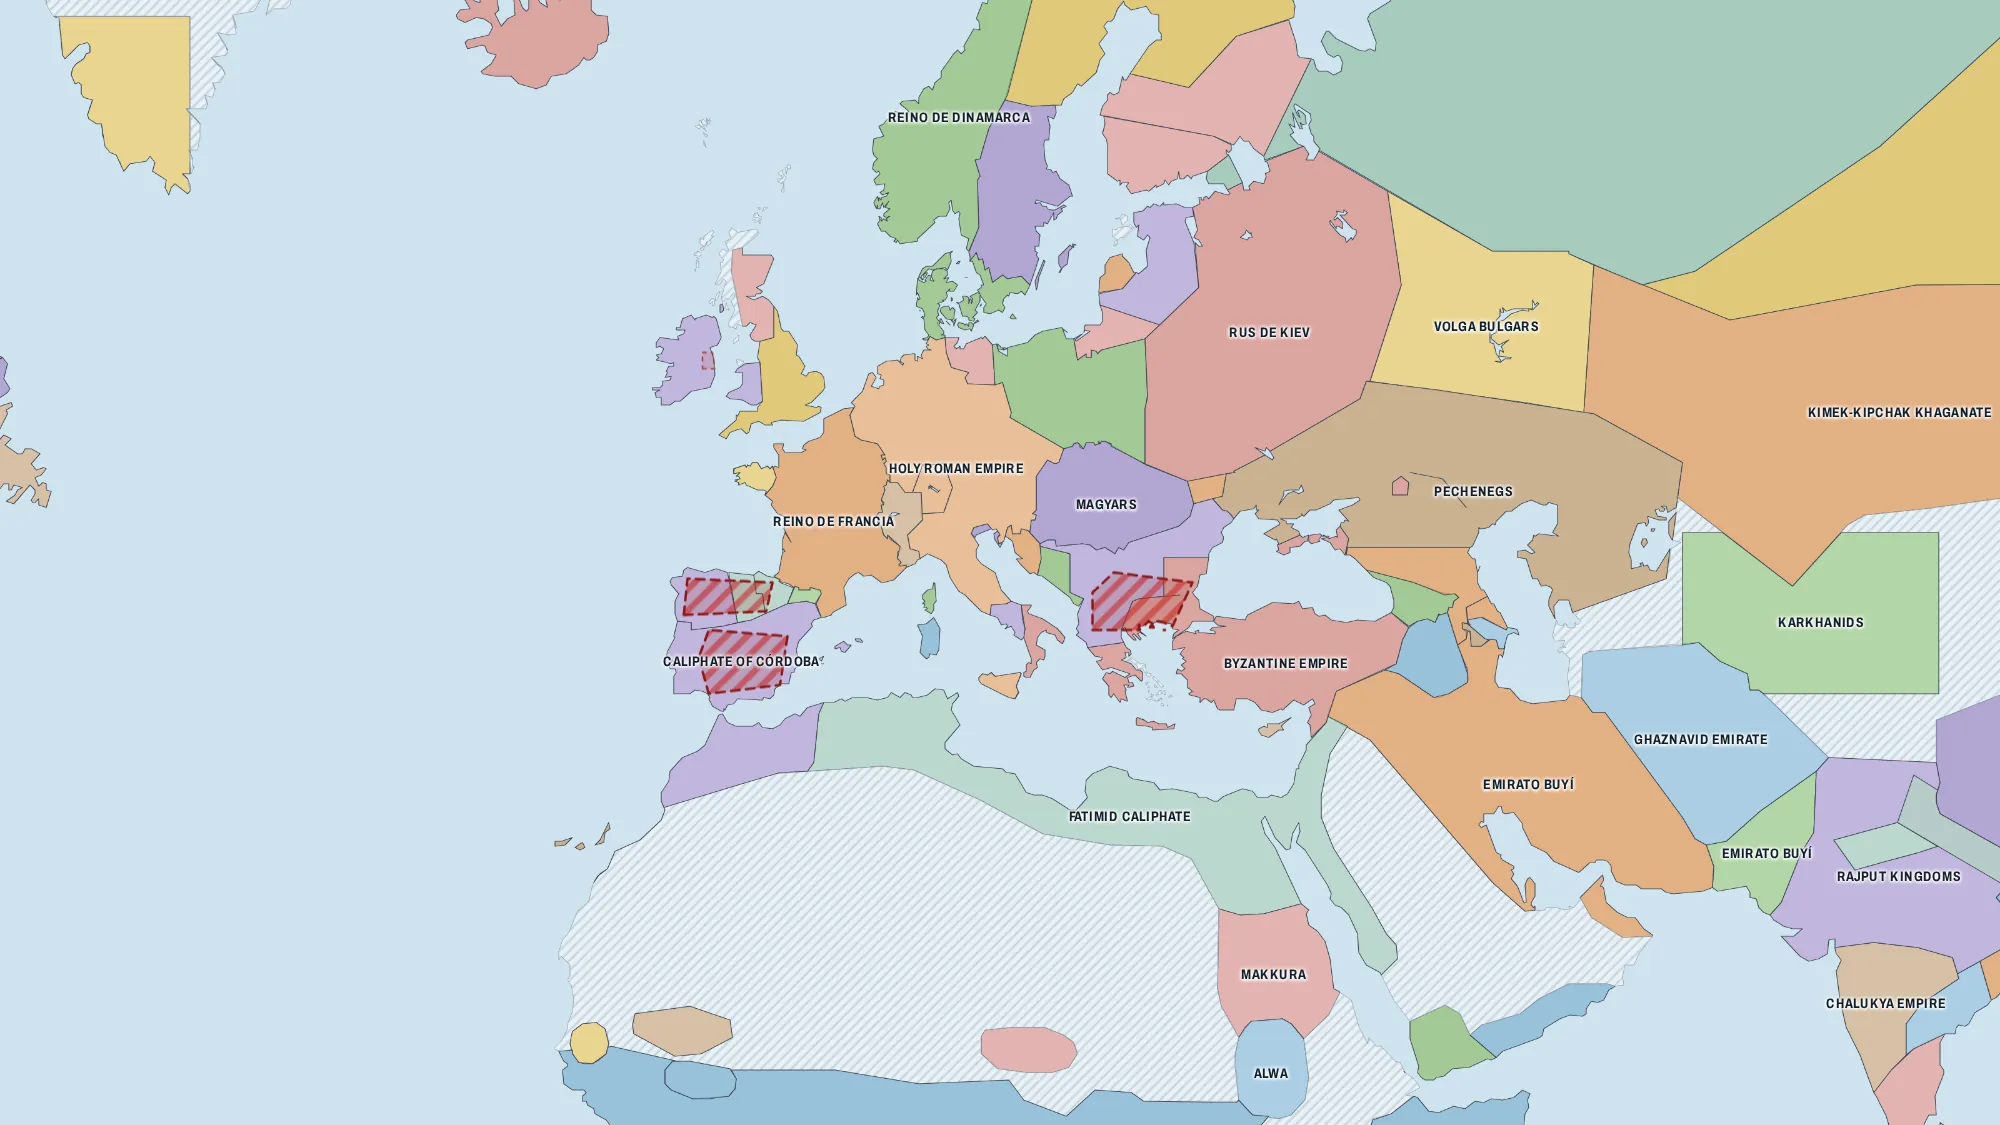
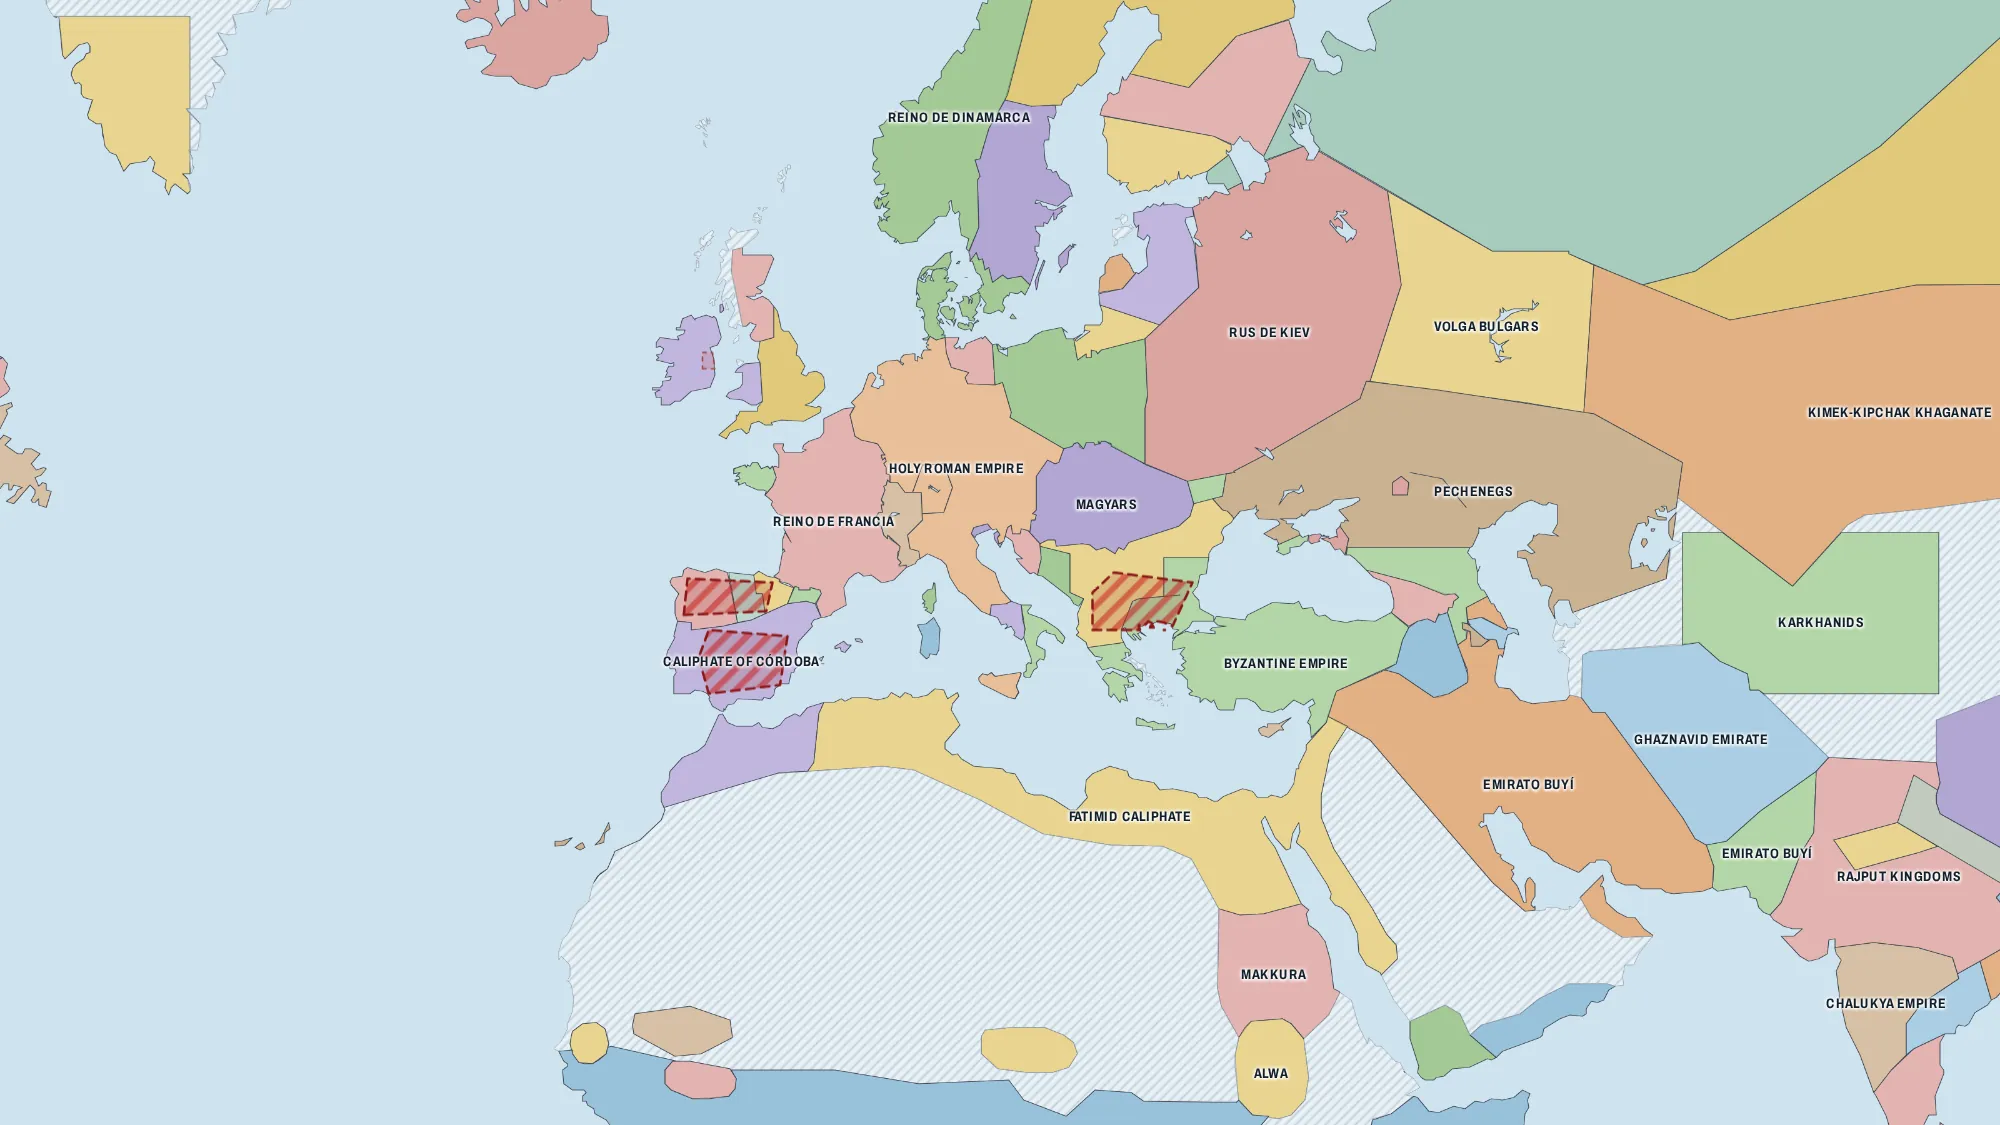
feat(web): dos territorios vecinos no comparten color
api/colorear.py reparte las 16 tintas por mapa (vecinas a menos de ~8 km con tono
distinto, estable entre años) y guarda las excepciones en web/data/colores.json, que
la web lee al arrancar. vista_previa.py usa los mismos colores; láminas regeneradas.

Claude-Session: https://claude.ai/code/session_01NZu73LRDWZHNznEX5qiivJ

diff --git a/web/js/mapa.js b/web/js/mapa.js
@@ -34,7 +34,7 @@ function rayadoSinDatos() {
 	return patronSinDatos;
 }
 
-function featureStyle(f) {
+function featureStyle(f, anio = state.colorYear) {
 	if (sinDatos(f.properties))
 		return { color: '#9aa6b1', weight: 0.5, fillColor: rayadoSinDatos(), fillOpacity: prefs.relleno ? 1 : 0 };
 	const key = f.properties.SUBJECTO || f.properties.NAME;
@@ -45,7 +45,7 @@ function featureStyle(f) {
 	return {
 		color: followed ? '#b8291c' : '#3a4450',
 		weight: followed ? 2 : 0.6,
-		fillColor: colorFor(key),
+		fillColor: colorFor(key, anio),
 		fillOpacity
 	};
 }
@@ -296,10 +296,10 @@ async function loadYearData(y) {
 /* capa saliente del modo Reproducir: copia no interactiva del mapa anterior en
    el pane 'saliente' (encima), cuya opacidad baja de 1 a 0 en 300 ms. Nunca hay
    más de dos capas vivas: si llega otro paso, la saliente previa se retira ya. */
-function retirarConFundido(oldLayer, oldGj) {
+function retirarConFundido(oldLayer, oldGj, oldYear) {
 	map.removeLayer(oldLayer);
 	if (state.saliente) map.removeLayer(state.saliente);
-	const capa = L.geoJSON(oldGj, { style: featureStyle, renderer: salienteRenderer, interactive: false });
+	const capa = L.geoJSON(oldGj, { style: f => featureStyle(f, oldYear), renderer: salienteRenderer, interactive: false });
 	state.saliente = capa.addTo(map);
 	const pane = map.getPane('saliente');
 	pane.style.transition = 'none';
@@ -330,8 +330,10 @@ async function showYear(requestedYear) {
 
 		// al reproducir, el mapa anterior se funde sobre el nuevo (se ve qué cambia);
 		// al arrastrar, con ◀ ▶ o con movimiento reducido, corte seco
+		const oldColorYear = state.colorYear;
+		state.colorYear = snap > LAST_MAP_YEAR ? LAST_MAP_YEAR : snap; // colores del mapa que se dibuja
 		if (state.layer && state.playTimer && !menosMovimiento() && state.layerGj) {
-			retirarConFundido(state.layer, state.layerGj);
+			retirarConFundido(state.layer, state.layerGj, oldColorYear);
 		} else if (state.layer) map.removeLayer(state.layer);
 		state.layerGj = gj;
 		state.layer = L.geoJSON(gj, {

diff --git a/web/js/nucleo.js b/web/js/nucleo.js
@@ -9,6 +9,7 @@
 const state = {
 	years: [], // años con datos, ordenados
 	shownYear: null, // snapshot actualmente dibujado
+	colorYear: null, // año del mapa cuyos colores (data/colores.json) se aplican
 	requestedYear: 1492, // año exacto elegido por el usuario (no el del snapshot)
 	layer: null, // capa GeoJSON activa
 	cache: new Map(), // año -> GeoJSON (máx. CACHE_MAX entradas)
@@ -88,13 +89,18 @@ function fileForYear(y) {
 }
 
 /* tintas del mapa mural (css/marca.css): ocho colores planos de lámina, cada uno
-   en dos tonos, repartidos por hash del nombre. Así una entidad conserva su color
-   en todos los años y dos vecinas rara vez coinciden. */
+   en dos tonos (índices i e i+8), repartidos por hash del nombre. Así una entidad
+   conserva su color en todos los años. Para que dos vecinas no coincidan,
+   api/colorear.py genera data/colores.json con las excepciones de cada mapa
+   ({año: {clave: índice}}), que se cargan al arrancar (js/arranque.js). */
 const TINTAS_MAPA = [
 	'#eaa39b', '#f1d06e', '#a9d18e', '#f2b27a', '#bda6d8', '#9cc7e0', '#d8b48a', '#b3d3c1',
 	'#df8f86', '#e6bf52', '#93c077', '#e89e5f', '#a78fc9', '#84b5d3', '#c9a072', '#98c2ab'
 ];
-function colorFor(name) {
+let COLORES = {}; // año de mapa -> { clave: índice en TINTAS_MAPA } (data/colores.json)
+function colorFor(name, anio = state.colorYear) {
+	const exc = COLORES[anio];
+	if (exc && Object.prototype.hasOwnProperty.call(exc, name)) return TINTAS_MAPA[exc[name]];
 	let h = 0;
 	for (let i = 0; i < name.length; i++) h = (h * 31 + name.charCodeAt(i)) >>> 0;
 	return TINTAS_MAPA[h % TINTAS_MAPA.length];

diff --git a/web/js/arranque.js b/web/js/arranque.js
@@ -72,7 +72,14 @@ async function init() {
 	document.getElementById('langSelect').value = i18n.lang;
 	montarMenuIdioma();
 
-	state.years = (await (await fetch('data/years.json')).json()).sort((a, b) => a - b);
+	const [anios, colores] = await Promise.all([
+		fetch('data/years.json').then(r => r.json()),
+		fetch('data/colores.json')
+			.then(r => (r.ok ? r.json() : {}))
+			.catch(() => ({})) // sin el fichero, colores por hash (algunas vecinas pueden coincidir)
+	]);
+	COLORES = colores;
+	state.years = anios.sort((a, b) => a - b);
 	LAST_MAP_YEAR = state.years[state.years.length - 1];
 	// años modernos navegables (reproducción y botones ◀ ▶); usan el último mapa
 	for (const vy of [2014, 2020, 2022, MAX_YEAR]) if (!state.years.includes(vy)) state.years.push(vy);

diff --git a/web/mapa.html b/web/mapa.html
@@ -133,14 +133,14 @@
   <script src="lib/polygon-clipping/polygon-clipping.umd.min.js"></script>
   <!-- lógica de la app, por secciones (ámbito global compartido; el orden importa) -->
   <script src="js/i18n.js?v=30"></script>
-  <script src="js/nucleo.js?v=31"></script>
+  <script src="js/nucleo.js?v=32"></script>
   <script src="js/datos.js?v=34"></script>
   <script src="js/fichas.js?v=36"></script>
   <script src="js/zonas.js?v=29"></script>
   <script src="js/capas.js?v=29"></script>
-  <script src="js/mapa.js?v=33"></script>
+  <script src="js/mapa.js?v=34"></script>
   <script src="js/paneles.js?v=31"></script>
   <script src="js/tiempo.js?v=30"></script>
-  <script src="js/arranque.js?v=32"></script>
+  <script src="js/arranque.js?v=33"></script>
 </body>
 </html>

diff --git a/api/colorear.py b/api/colorear.py
@@ -1,0 +1,162 @@
+#!/usr/bin/env python3
+# -*- coding: utf-8 -*-
+"""Reparte los colores del mapa para que dos territorios vecinos no se pinten igual.
+
+    python api/colorear.py            # (re)genera web/data/colores.json
+    python api/colorear.py --check    # solo informa (código 1 si habría cambios)
+    python api/colorear.py --informe  # lista los choques que había con el color por hash
+
+La web pinta cada entidad (SUBJECTO o, si no hay, NAME) con una de las 16 tintas de
+TINTAS_MAPA (web/js/nucleo.js): 8 colores en dos tonos, elegidos por un hash del
+nombre. Así una entidad conserva su color en todos los años, pero dos vecinas pueden
+caer en el mismo color. Este script recorre los mapas de web/data/years.json en orden
+cronológico, busca las entidades que se tocan (o quedan a menos de VECINDAD grados,
+p. ej. a ambos lados de un río generalizado) y, si comparten color —mismo tono de los
+8, aunque sea en la variante clara u oscura—, cambia el de la más pequeña.
+
+Prioridades para cada entidad, de mayor a menor superficie:
+  1. el color que ya tenía en el mapa anterior (si se lo cambiamos entonces);
+  2. su color por hash;
+  3. el primer color libre, probando antes el otro tono del mismo color.
+
+Solo se guardan las excepciones (entidades cuyo color difiere del hash), por año de
+mapa: {"<año>": {"<clave>": índice_en_TINTAS_MAPA}}. La web lo lee al arrancar
+(js/arranque.js) y colorFor() lo consulta para el año que se muestra.
+
+Necesita shapely (pip install shapely); la web no. Se ejecuta al final de la
+canalización de mapas, después de derivar_mapas.py.
+"""
+import json
+import os
+import sys
+
+try:
+    from shapely.geometry import shape
+    from shapely.ops import unary_union
+    from shapely.strtree import STRtree
+    from shapely.validation import make_valid
+except ImportError:  # pragma: no cover
+    sys.exit("Este script necesita shapely: pip install shapely")
+
+RAIZ = os.path.dirname(os.path.dirname(os.path.abspath(__file__)))
+GEOJSON = os.path.join(RAIZ, "web", "data", "geojson")
+YEARS = os.path.join(RAIZ, "web", "data", "years.json")
+SALIDA = os.path.join(RAIZ, "web", "data", "colores.json")
+N_TINTAS = 16  # longitud de TINTAS_MAPA en web/js/nucleo.js
+N_TONOS = 8  # índice i e i+8 son el mismo color en dos tonos
+VECINDAD = 0.08  # grados (~8 km): vecinas aunque haya una franja mínima entre ellas
+SIMPLIFICAR = 0.02
+
+
+def hash_color(nombre):
+    """El mismo hash que colorFor() en web/js/nucleo.js (unidades UTF-16, >>> 0)."""
+    h = 0
+    datos = nombre.encode("utf-16-le")
+    for i in range(0, len(datos), 2):
+        h = (h * 31 + int.from_bytes(datos[i:i + 2], "little")) & 0xFFFFFFFF
+    return h % N_TINTAS
+
+
+def fichero(y):
+    return f"world_bc{-y}.geojson" if y < 0 else f"world_{y}.geojson"
+
+
+def entidades(y):
+    """clave -> geometría unida (la clave es la que usa la web: SUBJECTO o NAME)."""
+    with open(os.path.join(GEOJSON, fichero(y)), encoding="utf-8") as f:
+        feats = json.load(f)["features"]
+    grupos = {}
+    for ft in feats:
+        p = ft.get("properties") or {}
+        if not p.get("NAME") or not ft.get("geometry"):
+            continue  # sin datos: se pinta rayado, sin color
+        clave = p.get("SUBJECTO") or p["NAME"]
+        g = make_valid(shape(ft["geometry"])).simplify(SIMPLIFICAR)
+        grupos.setdefault(clave, []).append(g)
+    return {k: unary_union(v) for k, v in grupos.items()}
+
+
+def vecinos(geoms):
+    claves = list(geoms)
+    lista = [geoms[k].buffer(VECINDAD / 2) for k in claves]
+    arbol = STRtree(lista)
+    ady = {k: set() for k in claves}
+    for i, g in enumerate(lista):
+        for j in arbol.query(g):
+            j = int(j)
+            if j > i and g.intersects(lista[j]):
+                ady[claves[i]].add(claves[j])
+                ady[claves[j]].add(claves[i])
+    return ady
+
+
+def tono(i):
+    return i % N_TONOS
+
+
+def colorear_mapa(geoms, previo):
+    ady = vecinos(geoms)
+    orden = sorted(geoms, key=lambda k: -geoms[k].area)
+    color = {}
+    for k in orden:
+        usados = {tono(color[v]) for v in ady[k] if v in color}
+        h = hash_color(k)
+        preferidos = []
+        if k in previo:
+            preferidos.append(previo[k])
+        preferidos += [h, (h + N_TONOS) % N_TINTAS]
+        preferidos += [i for i in range(N_TINTAS) if i not in preferidos]
+        elegido = next((i for i in preferidos if tono(i) not in usados), None)
+        if elegido is None:  # sin tono libre: al menos que no repita el color exacto
+            exactos = {color[v] for v in ady[k] if v in color}
+            elegido = next((i for i in preferidos if i not in exactos), h)
+        color[k] = elegido
+    choques_hash = sum(1 for k in geoms for v in ady[k] if k < v and tono(hash_color(k)) == tono(hash_color(v)))
+    restos = [(k, v) for k in geoms for v in ady[k] if k < v and tono(color[k]) == tono(color[v])]
+    return color, choques_hash, restos
+
+
+def main():
+    solo_ver = "--check" in sys.argv
+    informe = "--informe" in sys.argv
+    with open(YEARS, encoding="utf-8") as f:
+        anios = sorted(json.load(f))
+    salida = {}
+    previo = {}
+    total_hash = total_restos = 0
+    for y in anios:
+        if not os.path.exists(os.path.join(GEOJSON, fichero(y))):
+            continue
+        geoms = entidades(y)
+        color, choques, restos = colorear_mapa(geoms, previo)
+        total_hash += choques
+        total_restos += len(restos)
+        excepciones = {k: c for k, c in sorted(color.items()) if c != hash_color(k)}
+        if excepciones:
+            salida[str(y)] = excepciones
+        # solo se arrastra lo que se tuvo que cambiar: si la entidad vuelve a estar
+        # libre, recupera su color de siempre
+        previo = excepciones
+        if informe:
+            print(f"{y}: {len(geoms)} entidades, {choques} choques con el color por hash, "
+                  f"{len(excepciones)} recoloreadas, {len(restos)} sin resolver")
+            for a, b in restos:
+                print(f"   ⚠ {a} / {b}")
+    texto = json.dumps(salida, ensure_ascii=False, separators=(",", ":"), sort_keys=True) + "\n"
+    actual = open(SALIDA, encoding="utf-8").read() if os.path.exists(SALIDA) else None
+    print(f"{len(anios)} mapas · {total_hash} pares de vecinas con el mismo color por hash · "
+          f"{sum(len(v) for v in salida.values())} recoloreos · {total_restos} pares sin resolver")
+    if actual == texto:
+        print("✔ web/data/colores.json al día")
+        return 0
+    if solo_ver:
+        print("colores.json no está al día: ejecuta python api/colorear.py")
+        return 1
+    with open(SALIDA, "w", encoding="utf-8", newline="\n") as f:
+        f.write(texto)
+    print(f"✔ web/data/colores.json escrito ({len(texto) // 1024} KB)")
+    return 0
+
+
+if __name__ == "__main__":
+    sys.exit(main())

diff --git a/api/vista_previa.py b/api/vista_previa.py
@@ -39,7 +39,9 @@ RAIZ = os.path.dirname(os.path.dirname(os.path.abspath(__file__)))
 GEOJSON = os.path.join(RAIZ, "web", "data", "geojson")
 YEARS = os.path.join(RAIZ, "web", "data", "years.json")
 CONFLICTOS = os.path.join(RAIZ, "datos", "conflictos")
-TINTAS = ["#eaa39b", "#f1d06e", "#a9d18e", "#f2b27a", "#bda6d8", "#9cc7e0", "#d8b48a", "#b3d3c1"]
+TINTAS = ["#eaa39b", "#f1d06e", "#a9d18e", "#f2b27a", "#bda6d8", "#9cc7e0", "#d8b48a", "#b3d3c1",
+          "#df8f86", "#e6bf52", "#93c077", "#e89e5f", "#a78fc9", "#84b5d3", "#c9a072", "#98c2ab"]  # TINTAS_MAPA (web/js/nucleo.js)
+COLORES = os.path.join(RAIZ, "web", "data", "colores.json")
 
 
 def mapa_del_anio(y):
@@ -53,10 +55,19 @@ def mapa_del_anio(y):
     return elegido, os.path.join(GEOJSON, fn)
 
 
-def color(nombre):
+def color(nombre, anio=None):
+    """El color que usa la web: excepción de data/colores.json para ese mapa o, si no, hash."""
+    if anio is not None:
+        try:
+            with open(COLORES, encoding="utf-8") as f:
+                exc = json.load(f).get(str(anio), {})
+            if nombre in exc:
+                return TINTAS[exc[nombre]]
+        except (OSError, ValueError):
+            pass
     h = 0
-    for c in nombre or "?":
-        h = (h * 31 + ord(c)) & 0xFFFFFFFF
+    for u in range(0, len((nombre or "?").encode("utf-16-le")), 2):
+        h = (h * 31 + int.from_bytes((nombre or "?").encode("utf-16-le")[u:u + 2], "little")) & 0xFFFFFFFF
     return TINTAS[h % len(TINTAS)]
 
 
@@ -97,7 +108,7 @@ def main():
         nombre = ft["properties"].get("NAME")
         if nombre:
             borde = "#b8291c" if nombre in resaltar else "#3a4450"
-            pintar(ax, g, fc=color(ft["properties"].get("SUBJECTO") or nombre), ec=borde,
+            pintar(ax, g, fc=color(ft["properties"].get("SUBJECTO") or nombre, mapa_anio), ec=borde,
                    lw=2 if nombre in resaltar else 0.5, alpha=0.85)
             vis = g.intersection(marco)
             if not vis.is_empty and vis.area > (caja[2] - caja[0]) * (caja[3] - caja[1]) * 0.004:
